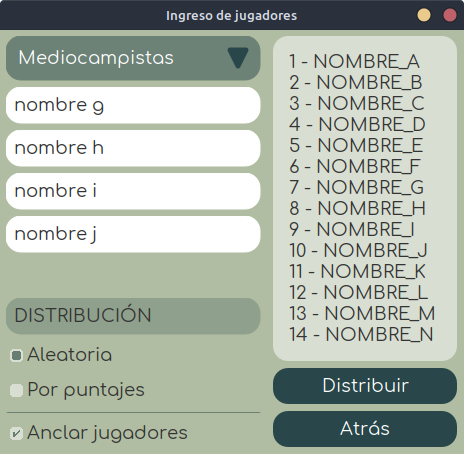
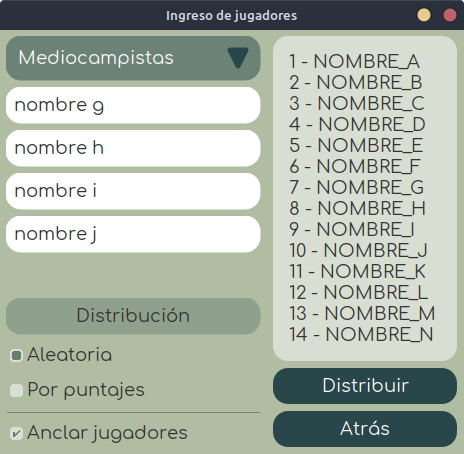
fix labels text case and minor typo

Changed region(s): [[0.0302, 0.6784, 0.4224, 0.7093]]

diff --git a/src/main/java/armameeldoparti/controllers/ResultsController.java b/src/main/java/armameeldoparti/controllers/ResultsController.java
@@ -18,6 +18,7 @@ import java.awt.Graphics2D;
 import java.util.ArrayList;
 import java.util.Arrays;
 import java.util.List;
+import java.util.Map;
 import javax.swing.JComponent;
 import javax.swing.JTable;
 import javax.swing.SwingConstants;
@@ -169,7 +170,7 @@ public class ResultsController extends Controller<ResultsView> {
     );
 
     if (CommonFields.getDistribution() == Constants.MIX_BY_SKILL_POINTS) {
-      for (int teamIndex = 0; teamIndex < 2; teamIndex++) {
+      for (int teamIndex = 0; teamIndex < teams.size(); teamIndex++) {
         table.setValueAt(
             teams.get(teamIndex)
                  .getTeamPlayers()
@@ -242,38 +243,36 @@ public class ResultsController extends Controller<ResultsView> {
    * Fills the table cells whose texts do not change.
    */
   private void fillTableFields() {
-    for (int teamIndex = 0; teamIndex < 2; teamIndex++) {
+    int rowCount = table.getRowCount() - 1;
+
+    Map<Position, String> positionsMap = CommonFields.getPositionsMap();
+
+    for (int teamIndex = 0; teamIndex < teams.size(); teamIndex++) {
       table.setValueAt("EQUIPO " + (teamIndex + 1), 0, teamIndex + 1);
     }
-
-    int rowCount = table.getRowCount() - 1;
 
     for (int rowIndex = 1; rowIndex < rowCount; rowIndex++) {
       if (rowIndex == 1) {
         table.setValueAt(
-            CommonFields.getPositionsMap()
-                        .get(Position.CENTRAL_DEFENDER),
+            positionsMap.get(Position.CENTRAL_DEFENDER),
             rowIndex,
             0
         );
       } else if (rowIndex < 4) {
         table.setValueAt(
-            CommonFields.getPositionsMap()
-                        .get(Position.LATERAL_DEFENDER),
+            positionsMap.get(Position.LATERAL_DEFENDER),
             rowIndex,
             0
         );
       } else if (rowIndex < 6) {
         table.setValueAt(
-            CommonFields.getPositionsMap()
-                        .get(Position.MIDFIELDER),
+            positionsMap.get(Position.MIDFIELDER),
             rowIndex,
             0
         );
       } else if (rowIndex < 7) {
         table.setValueAt(
-            CommonFields.getPositionsMap()
-                        .get(Position.FORWARD),
+            positionsMap.get(Position.FORWARD),
             rowIndex,
             0
         );
@@ -281,19 +280,17 @@ public class ResultsController extends Controller<ResultsView> {
     }
 
     if (CommonFields.getDistribution() == Constants.MIX_BY_SKILL_POINTS) {
-      for (int teamIndex = 0; teamIndex < 2; teamIndex++) {
+      for (int teamIndex = 0; teamIndex < teams.size(); teamIndex++) {
         table.setValueAt(
-            teamIndex == 0 ? CommonFields.getPositionsMap()
-                                         .get(Position.GOALKEEPER)
-                           : "PUNTAJE DEL EQUIPO",
+            teamIndex == 0 ? positionsMap.get(Position.GOALKEEPER)
+                           : "Puntuación del equipo",
             table.getRowCount() + teamIndex - 2,
             0
         );
       }
     } else {
       table.setValueAt(
-          CommonFields.getPositionsMap()
-                      .get(Position.GOALKEEPER),
+          positionsMap.get(Position.GOALKEEPER),
           table.getRowCount() - 1,
           0
       );
@@ -384,12 +381,14 @@ public class ResultsController extends Controller<ResultsView> {
               return c;
             }
 
-            Player playerOnCell = (Player) CommonFields.getPlayersSets()
-                                                       .values()
-                                                       .stream()
-                                                       .flatMap(List::stream)
-                                                       .filter(player -> player.getName() == value)
-                                                       .toArray()[0];
+            Player playerOnCell = CommonFunctions.retrieveOptional(
+                CommonFields.getPlayersSets()
+                            .values()
+                            .stream()
+                            .flatMap(List::stream)
+                            .filter(player -> player.getName() == value)
+                            .findFirst()
+            );
 
             c.setBackground(
                 playerOnCell.getAnchorageNumber() != 0

diff --git a/src/main/java/armameeldoparti/views/AnchoragesView.java b/src/main/java/armameeldoparti/views/AnchoragesView.java
@@ -91,19 +91,10 @@ public class AnchoragesView extends View {
 
   @Override
   protected void initializeInterface() {
-    CommonFields.getPlayersSets()
-                .forEach((position, playersSet) -> {
-                  fillCheckboxesSet(playersSet, checkboxesMap.get(position));
-                  addCheckboxesSet(
-                      checkboxesMap.get(position),
-                      CommonFields.getPositionsMap()
-                                  .get(position)
-                  );
-                });
-
     masterPanel.add(leftPanel, Constants.MIG_LAYOUT_WEST);
     masterPanel.add(rightPanel, Constants.MIG_LAYOUT_EAST);
 
+    addCheckBoxes();
     addTextArea();
     addButtons();
     add(masterPanel);
@@ -155,6 +146,22 @@ public class AnchoragesView extends View {
   // ---------------------------------------- Private methods -----------------------------------
 
   /**
+   * Adds the players checkboxes and their position labels.
+   */
+  private void addCheckBoxes() {
+    Map<Position, String> positionsMap = CommonFields.getPositionsMap();
+
+    CommonFields.getPlayersSets()
+                .forEach((position, playersSet) -> {
+                  fillCheckboxesSet(playersSet, checkboxesMap.get(position));
+                  addCheckboxesSet(
+                      checkboxesMap.get(position),
+                      CommonFunctions.capitalize(positionsMap.get(position))
+                  );
+                });
+  }
+
+  /**
    * Adds the text area where to display the anchorages.
    */
   private void addTextArea() {
@@ -186,7 +193,7 @@ public class AnchoragesView extends View {
    */
   private void addCheckboxesSet(List<JCheckBox> cbSet, String labelText) {
     leftPanel.add(
-        new CustomLabel(labelText, SwingConstants.LEFT),
+        new CustomLabel(labelText, SwingConstants.CENTER),
         CommonFunctions.buildMigLayoutConstraints(
           Constants.MIG_LAYOUT_GROWX,
           Constants.MIG_LAYOUT_SPAN

diff --git a/src/main/java/armameeldoparti/utils/common/Constants.java b/src/main/java/armameeldoparti/utils/common/Constants.java
@@ -144,8 +144,6 @@ public final class Constants {
   public static final String MIG_LAYOUT_WEST = "west";
   public static final String MIG_LAYOUT_WRAP = "wrap";
   public static final String MIG_LAYOUT_WRAP_2 = MIG_LAYOUT_WRAP + " 2";
-  public static final String MIX_OPTION_RANDOM = "Aleatoriamente";
-  public static final String MIX_OPTION_BY_SKILL = "Por puntuaciones";
   public static final String MSG_ERROR_INVALID_STRING = "El nombre del jugador debe estar formado"
                                                         + " por letras de la A a la Z";
   public static final String MSG_ERROR_INVALID_NAME = "El nombre del jugador no puede estar vacío,"
@@ -249,16 +247,6 @@ public final class Constants {
       Constants.ROUNDED_BORDER_INSETS_GENERAL,
       Constants.ROUNDED_BORDER_INSETS_GENERAL,
       Constants.ROUNDED_BORDER_INSETS_GENERAL
-  );
-
-  /**
-   * Possible players distribution methods.
-   */
-  public static final List<String> OPTIONS_MIX = Collections.unmodifiableList(
-      Arrays.asList(
-        MIX_OPTION_RANDOM,
-        MIX_OPTION_BY_SKILL
-      )
   );
 
   /**

diff --git a/src/main/java/armameeldoparti/views/NamesInputView.java b/src/main/java/armameeldoparti/views/NamesInputView.java
@@ -70,7 +70,7 @@ public class NamesInputView extends View {
    * Builds the names input view.
    */
   public NamesInputView() {
-    super("Ingreso de jugadores", String.join(" ", Constants.MIG_LAYOUT_WRAP, "2"));
+    super("Ingreso de jugadores", Constants.MIG_LAYOUT_WRAP_2);
 
     leftPanel = new JPanel(new MigLayout(Constants.MIG_LAYOUT_WRAP, Constants.MIG_LAYOUT_GROW));
     leftTopPanel = new JPanel(new MigLayout(Constants.MIG_LAYOUT_WRAP));
@@ -201,7 +201,7 @@ public class NamesInputView extends View {
     radioButtonBySkillPoints = new CustomRadioButton("Por puntajes");
 
     leftBottomPanel.add(
-        new CustomLabel("DISTRIBUCIÓN", SwingConstants.LEFT),
+        new CustomLabel("Distribución", SwingConstants.CENTER),
         CommonFunctions.buildMigLayoutConstraints(
           Constants.MIG_LAYOUT_GROWX,
           Constants.MIG_LAYOUT_PUSHX

diff --git a/src/main/java/armameeldoparti/views/HelpView.java b/src/main/java/armameeldoparti/views/HelpView.java
@@ -95,7 +95,7 @@ public class HelpView extends View {
    * Adds the text field where to display the current page title.
    */
   private void addPageTitleTextField() {
-    pageTitleTextField = new CustomLabel(SwingConstants.CENTER);
+    pageTitleTextField = new CustomLabel(null, SwingConstants.CENTER);
 
     masterPanel.add(pageTitleTextField, Constants.MIG_LAYOUT_GROW);
   }
@@ -113,7 +113,7 @@ public class HelpView extends View {
    * Adds the reading progress label.
    */
   private void addPagesLabel() {
-    pagesCounter = new CustomLabel(SwingConstants.CENTER);
+    pagesCounter = new CustomLabel(null, SwingConstants.CENTER);
 
     masterPanel.add(pagesCounter, Constants.MIG_LAYOUT_GROWX);
   }

diff --git a/src/main/java/armameeldoparti/views/SkillPointsInputView.java b/src/main/java/armameeldoparti/views/SkillPointsInputView.java
@@ -100,12 +100,13 @@ public class SkillPointsInputView extends View {
    * Adds the spinners to their corresponding panel.
    */
   private void addSpinners() {
+    Map<Position, String> positionsMap = CommonFields.getPositionsMap();
+
     for (Position position : Position.values()) {
       masterPanel.add(
           new CustomLabel(
-            CommonFields.getPositionsMap()
-                        .get(position),
-            SwingConstants.LEFT
+            CommonFunctions.capitalize(positionsMap.get(position)),
+            SwingConstants.CENTER
           ),
           CommonFunctions.buildMigLayoutConstraints(
             Constants.MIG_LAYOUT_GROW,

diff --git a/src/main/java/armameeldoparti/utils/common/custom/graphical/CustomLabel.java b/src/main/java/armameeldoparti/utils/common/custom/graphical/CustomLabel.java
@@ -23,16 +23,6 @@ public class CustomLabel extends JLabel {
   // ---------------------------------------- Constructors --------------------------------------
 
   /**
-   * Builds a basic empty label using the established program aesthetics.
-   *
-   * @param alignment The label text alignment.
-   */
-  public CustomLabel(int alignment) {
-    super();
-    setUpGraphicalProperties(alignment);
-  }
-
-  /**
    * Builds a basic label using the established program aesthetics.
    *
    * @param text      The label text.
